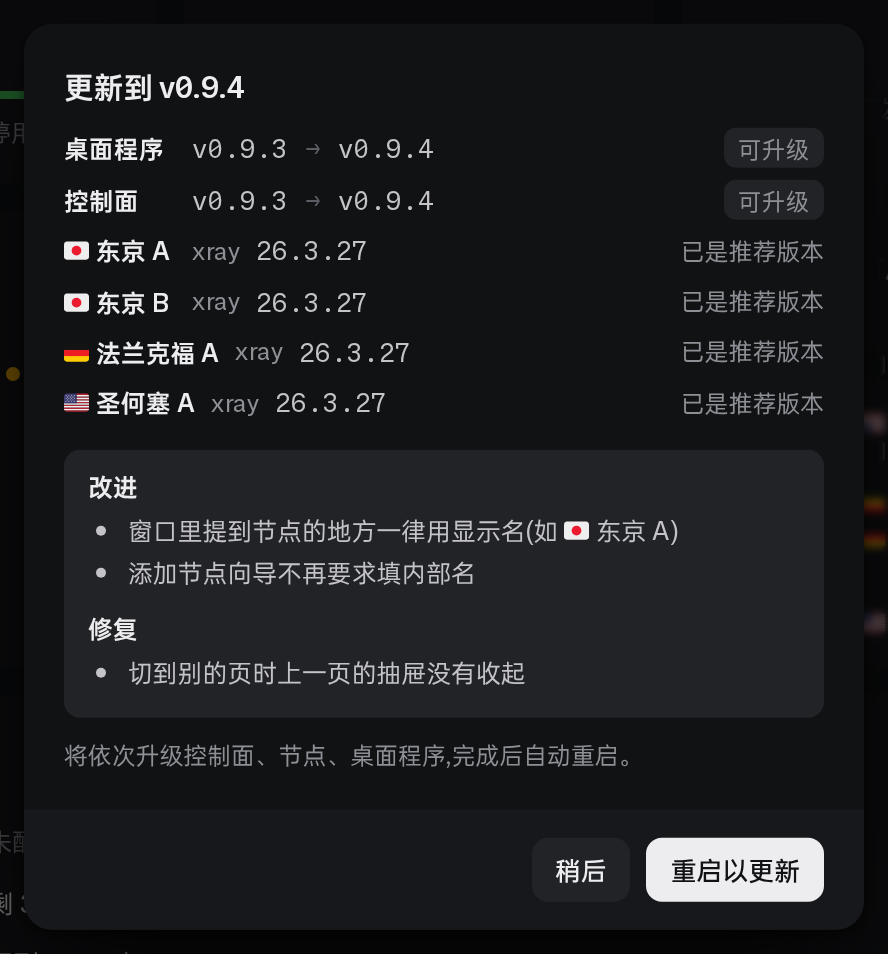
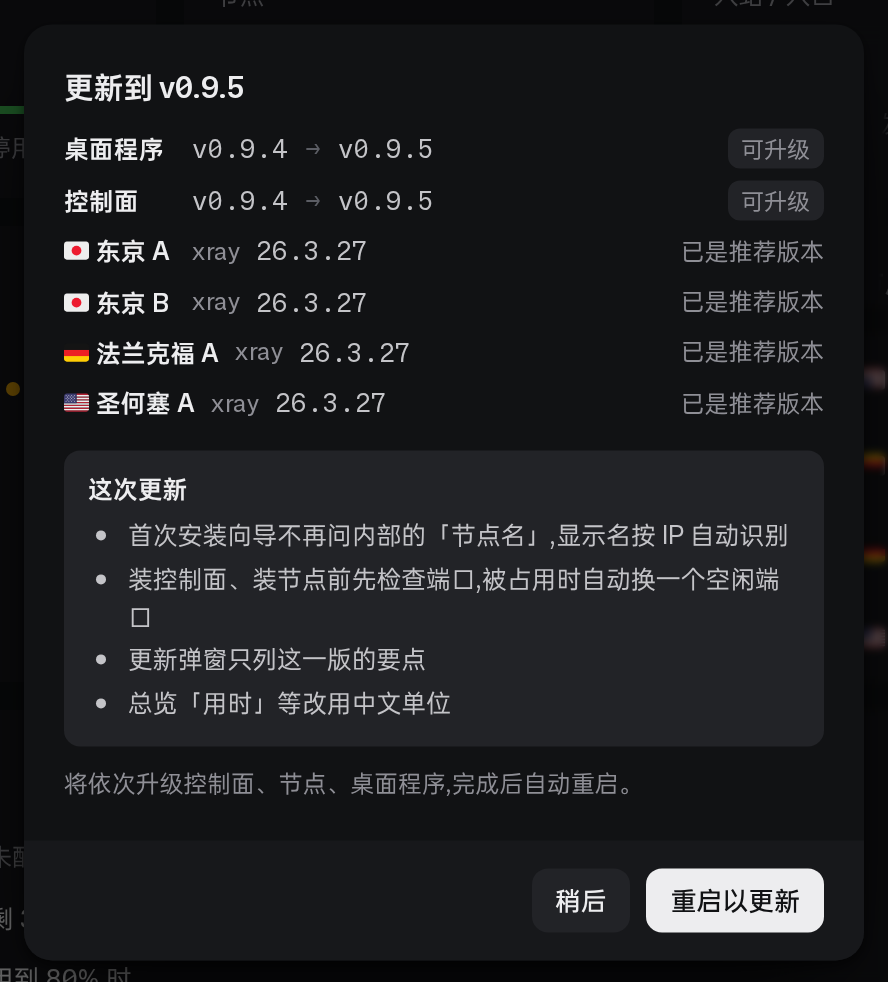
docs: 跟上 v0.9.5:向导不再填节点名、总览中文单位、更新弹窗只列要点,「配置档」改称「控制面」,截图按 v0.9.5 重拍

diff --git a/docs/guides/devices.md b/docs/guides/devices.md
@@ -73,8 +73,8 @@ sudo sh -c 'MPX_TOKEN="$(sed -n "s/^MPX_TOKEN=//p" /etc/mpx/env)" mpx --server h
 
 你管理不止一套控制面时（例如一套自用、一套给家人），可以都接进同一个 MPX：
 
-1. 点左上角的配置档卡片，在弹出的列表里点 **添加控制面…**。
+1. 点左上角的控制面卡片，在 **切换控制面** 弹窗里点 **添加控制面…**。
 2. 和接入新设备一样填 **控制面地址**、点 **取指纹**、核对指纹并勾上确认。
-3. 填 **配置档名**（字母、数字、`-`、`_`，最多 32 个字符，不能和已有的重名），输入那套控制面的 **设备密码**，点 **接入**。
+3. 填 **名称**（字母、数字、`-`、`_`，最多 32 个字符，不能和已有的重名），输入那套控制面的 **设备密码**，点 **接入**。
 
-接入成功后窗口直接切到新控制面。以后点配置档卡片，在列表里点一项就能来回切换；每项后面显示证书指纹的前 16 位，方便分辨。
+接入成功后窗口直接切到新控制面。以后点左上角的控制面卡片，在列表里点一项就能来回切换，MPX 会记住你最后选的那套。每项显示名称和地址；证书指纹在 **设置 → 通用** 的 **当前控制面** 里看。

diff --git a/docs/index.md b/docs/index.md
@@ -56,7 +56,7 @@ title: MPX
 <h2>加一台服务器：填 IP 和密码</h2>
 <p>节点页点「添加节点」，填地址和 root 密码。装核心、建入站、起名一路做完，完成页告诉你这台进了哪些订阅。</p>
 </div>
-<figure class="tile shot"><img class="only-light" src="/ui/node-wizard.png" width="1280" height="820" alt="添加节点向导：填服务器地址、节点名和 SSH 密码"><img class="only-dark" src="/ui/node-wizard-dark.png" width="1280" height="820" alt="添加节点向导：填服务器地址、节点名和 SSH 密码（深色）"><figcaption>添加节点<span>MPX 桌面窗口</span></figcaption></figure>
+<figure class="tile shot"><img class="only-light" src="/ui/node-wizard.png" width="1280" height="820" alt="添加节点向导：填服务器地址和 SSH 密码"><img class="only-dark" src="/ui/node-wizard-dark.png" width="1280" height="820" alt="添加节点向导：填服务器地址、节点名和 SSH 密码（深色）"><figcaption>添加节点<span>MPX 桌面窗口</span></figcaption></figure>
 </div>
 <div class="showcase-row showcase-admin">
 <div class="showcase-text">

diff --git a/docs/tutorial/quickstart.md b/docs/tutorial/quickstart.md
@@ -55,9 +55,9 @@
 在这一页改 **SSH 端口**，或者把登录方式换成 **这台电脑已能用密钥登录**。
 :::
 
-## 3. 起名字、设个设备密码，开始安装
+## 3. 起个用户名、设个设备密码，开始安装
 
-1. **第一个用户** 和 **节点名** 随便起，例如 `alice` 和 `tokyo`。
+1. **第一个用户** 随便起个名字，例如 `alice`。节点的显示名（如 🇯🇵 东京 A）按 VPS 的 IP 自动识别，不用填。
 2. 设一个**设备密码**，至少 12 位，再输一次确认。以后用别的电脑管理时要输它，它不是 VPS 的密码，记好。
 3. 点 **开始安装**，等每一步都打上勾。大约 5–10 分钟，看 VPS 网速。
 
